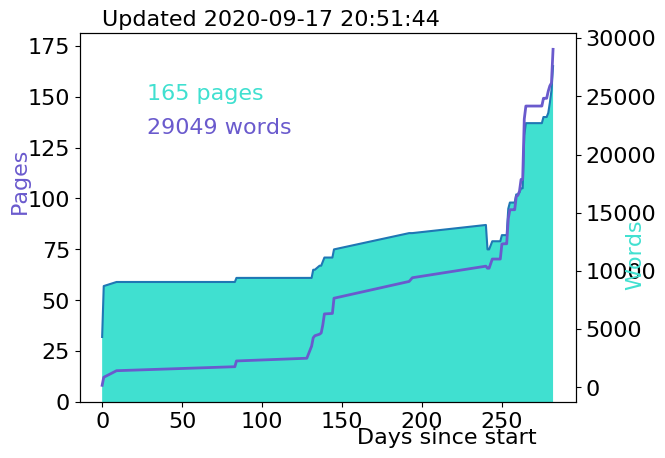
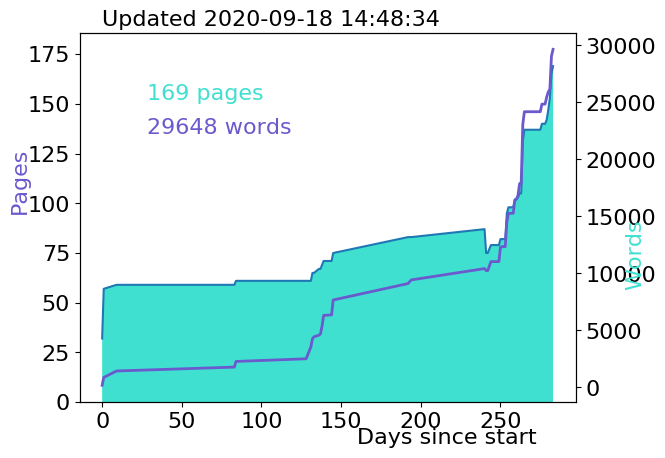
gmsb discussion

diff --git a/Chapters/theory.tex b/Chapters/theory.tex
@@ -20,9 +20,9 @@ The \acf{SM} provides a framework for all known particles and interactions throu
 
 
 \subsection{Leptons}
-There are three generations of leptons, labeled by flavor, which interact via the electromagnetic and weak forces: electrons ($e$), muons ($\mu$), and taus ($\tau$), ordered by mass. Each lepton has negative electromagnetic charge and has an anti-particle with positive charge. 
+There are three generations of leptons ($\ell$), labeled by flavor, which interact via the electromagnetic and weak forces: electrons ($e$), muons ($\mu$), and taus ($\tau$), ordered by mass. Each lepton has negative electromagnetic charge and has an anti-particle with positive charge. 
 
-There are also three generations of leptons which interact only via the weak force: electron neutrino ($\nu_{e}$), muon neutrino ($\nu_{\mu}$), and tau neutrinos ($\nu_{\tau}$), with unknown mass ordering. Neutrinos have no electromagnetic charge and tiny masses and thus are extremely hard to detect and not studied at the \ac{LHC}. 
+There are also three generations of leptons ($\nu$) which interact only via the weak force: electron neutrino ($\nu_{e}$), muon neutrino ($\nu_{\mu}$), and tau neutrinos ($\nu_{\tau}$), with unknown mass ordering. Neutrinos have no electromagnetic charge and tiny masses and thus are extremely hard to detect and not studied at the \ac{LHC}. 
 
 Electrons and neutrinos are stable, while muons and taus are not. Muons decay to an electron and neutrino with a lifetime of 2.2 $\mu$s, and taus decay 17\% of the time each to an electron or muon and neutrinos, and the remaining 66\% of the time into hadrons and neutrinos. In any \ac{SM} process, the number of leptons ($L$) of each flavor is conserved. 
 
@@ -50,7 +50,7 @@ where $C$ stands for the color charge of the strong force, $L$ stands for left b
 \begin{table}[htb]
 \begin{center}
 \begin{tabular}{cc}
- force & coupling strength $\alpha$ \\
+ force & relative coupling strength \\
  \hline
   gravity   &  $10^{-39}$    \\
   weak      &  $10^{-6}$     \\
@@ -112,6 +112,8 @@ There are many reasons to believe the Standard Model does not give a full pictur
 
 There are also several aesthetic features of the Standard Model that indicate something might be missing, but are not real problems with the theory. The hierarchy problem suggests that there should be another mass scale below the Planck scale to control the Higgs boson mass. The experimentally measured mass is the sum of the bare mass that appears in the Lagrangian and any quantum corrections from interactions with other particles. Should there be no lower mass scale, those quantum corrections would need to be $10^{35}$ times larger than the Higgs mass. While this is possible, the idea of combining two very large numbers to result in exact, small number makes physicists very uncomfortable and indicates that there might be something that is not understood.
 
+\todo{force unification}
+
 
 \section{Supersymmetry}
 
@@ -123,10 +125,58 @@ Should \ac{SUSY} exist, we already know that it must be broken. If the selectron
 
 \subsection{Minimal Supersymmetric Standard Model}
 
-\subsection{GMSB}
+\todo{particle content}
+\todo{define LSP, NSLP}
+\todo{R-parity}
+\todo{susy breaking}
 
 \subsection{Simplified Models}
 
+\subsection{GMSB}
+
+There are various mechanisms by which \ac{SUSY} can be broken. In \acf{GMSB} models, the symmetry breaking occurs via ordinary gauge interactions by heavy messengers carrying $SU(3) \times SU(2) \times U(1)$ quantum numbers \cite{gmsb-lep,Dimopoulos_1996,Ambrosanio_1997}.
+
+Phenomenologically, \ac{GMSB} models have several notable features. 
+\begin{itemize}
+	\item The \ac{LSP} is always the gravitino $\tilde{G}$ because it does not get its mass through the gauge interactions. $m_{\tilde{G}}$ is related to $F/M_P$, where $\sqrt{F}$ is the \ac{SUSY} breaking scale ($\tilde{} 10^4 - 10^{11}$ GeV) and $M_P$ is the Planck scale ($\tilde{} 10^{19}$ GeV), making the mass extremely small and can be approximated as massless.
+
+	\item The \ac{NLSP} is either the lightest neutralino $\chi$ or the slepton \slep. In the slepton case, the \ac{NLSP} is either the stau \stau or all three flavors \selec, \smu, \stau are mass degenerate co-\acp{NLSP}s. The \ac{NLSP} decay modes are $\chi \rightarrow \gamma \tilde{G}$ or $\tilde{\ell} \rightarrow \ell \tilde{G}$. This thesis presents a search for the  \slep. 
+
+	\item Due to the small gravitational coupling, the decay is suppressed and the \ac{NLSP} becomes \emph{long lived}. 
+\end{itemize}
+
+
+\begin{figure}[htbp]
+\centering
+\includegraphics[width=.8\textwidth]{figures/theory/slsl-llGG-GMSB.pdf}
+\caption{\ac{GMSB} \slep decay to \ac{SM} $\ell$ and $\tilde{G}$. This is the Feynman diagram targeted by the search presented in this thesis.}
+\label{fig:feynman}
+\end{figure}
+
+
+The lifetime of a slepton \ac{NLSP} can be expressed as
+\begin{equation}
+   c \tau \approx 100 \um \bigg(\frac{100 \GeV}{m_{\slep}}\bigg)^5\bigg(\frac{\sqrt{F}}{100 \TeV}\bigg)^4
+\end{equation}
+Even at the low end of possible \ac{SUSY} breaking scales, the \slep will travel a substantial distance relative to \ac{SM} particles \cite{jesseshelton}. Particle lifetimes will be further discussed in \autoref{chap:llps}. In the intermediate breaking scale regime, the \slep can travel a small distance before decaying resulting in \ac{SM} $\ell$ are \emph{displaced} meaning they originate a macroscopic distance from the \slep production point. Most \ac{SUSY} searches at colliders assume that leptons are \emph{prompt} and point back to the \slep production point and have no sensitivity to \slep with long lifetimes. Long lived \slep production was last explored by the OPAL experiment at \ac{LEP} which excluded models with \slep masses less than 90 GeV. Experimental context for this search will be further discussed in \autoref{chap:context}.
+
+The search presented in this thesis provides unique sensitivity to \ac{GMSB} \slep decays. The signature of the decay is a displaced \ac{SM} $\ell$, either two electrons, two muons, or an electron and a muon. The range of possible $\ell$ masses and lifetimes to which this search is sensitive is dictated by:
+\begin{itemize}
+	\item The \emph{cross section} of \slep production, or the probability that it will occur in a $pp$ collision. The cross section decreases with increasing \slep mass. This signature is not expected to have backgrounds from \ac{SM} processes, so only 3 events must be observed to make a discovery. This sets an upper bound on the mass sensitivity.
+	\item The size of the detector and reconstruction algorithms dictate lifetime sensitivity. In this search, the trajectory of the lepton must be measured in the tracking detector and that trajectory must be substantially displaced. This requirement sets the upper and lower bounds of lifetime sensitivity.
+	\item The requirement that both \ac{SM} $\tau$ decay leptonically limits the \stau sensitivity relative to \selec and \smu. 12\% of di-$\tau$ events have both $\tau$ decaying leptonically. 
+	\item The thresholds for triggering an event during data collection set a lower limit on mass sensitivity. These thresholds will be further discussed in \autoref{sec:daq}. This particularly limits the \stau sensitivity for two reasons. First, electrons and muons from \stau decays have lower momentum than leptons resulting from \selec or \smu because some of the $\tau$ momentum is carried away by the neutrinos in the decay. Additionally, the \stau \ac{NLSP} is expected to be right-handed which results in lower energy $\tau$, shown in \autoref{fig:taupt}. 
+\end{itemize}
+
+
+\begin{figure}[htbp]
+\centering
+\includegraphics[width=.8\textwidth]{figures/theory/tau-pt.png}
+\caption{Distribution of $\tau$ energies from left- and right-handed \stau decays. A \ac{GMSB} \stau is expected to be right-handed, resulting in lower $\tau$ energies.}
+\label{fig:taupt}
+\end{figure}
+
+This search is sensitive to \selec and \smu with masses 50--800 GeV and lifetimes 0.001--10 ns, and \stau with masses 100--400 GeV and lifetimes 0.01--1 ns.
 
 
 

diff --git a/Chapters/ATLAS.tex b/Chapters/ATLAS.tex
@@ -230,6 +230,7 @@ All of the \ac{ATLAS} subdetectors are used in combination to identify particles
 
 
 \section{Trigger and Data Acquisition}
+\label{sec:daq}
 
 The \ac{LHC} provides bunch crossings every 25 ns in which an average of 33 collisions occur. Each bunch crossing, or \emph{event}, contains about 25 MB of detector-level data. This can be reduced to about 1 MB of reconstructed data, but this would still result in 40 TB/s, an impossible amount of data to process and store. Furthermore, many of these events are not useful for physics analyses; most events contain low energy \ac{QCD} process from marginal interactions between partons. A great deal of effort goes into the optimization of the algorithms used to select the events with the highest probability to be interesting for physics because if an event with some new \ac{BSM} particle occurs in a collision, but is not recorded, it is lost forever.
 

diff --git a/scripts/pages.md b/scripts/pages.md
@@ -493,3 +493,7 @@
 + [2020-09-17-15h07m37s] 159 27539
 + [2020-09-17-20h01m57s] 164 28441
 + [2020-09-17-20h51m44s] 165 29049
++ [2020-09-18-12h43m57s] 144 29397
++ [2020-09-18-12h44m22s] 167 29397
++ [2020-09-18-13h02m51s] 168 29574
++ [2020-09-18-14h48m34s] 169 29648
